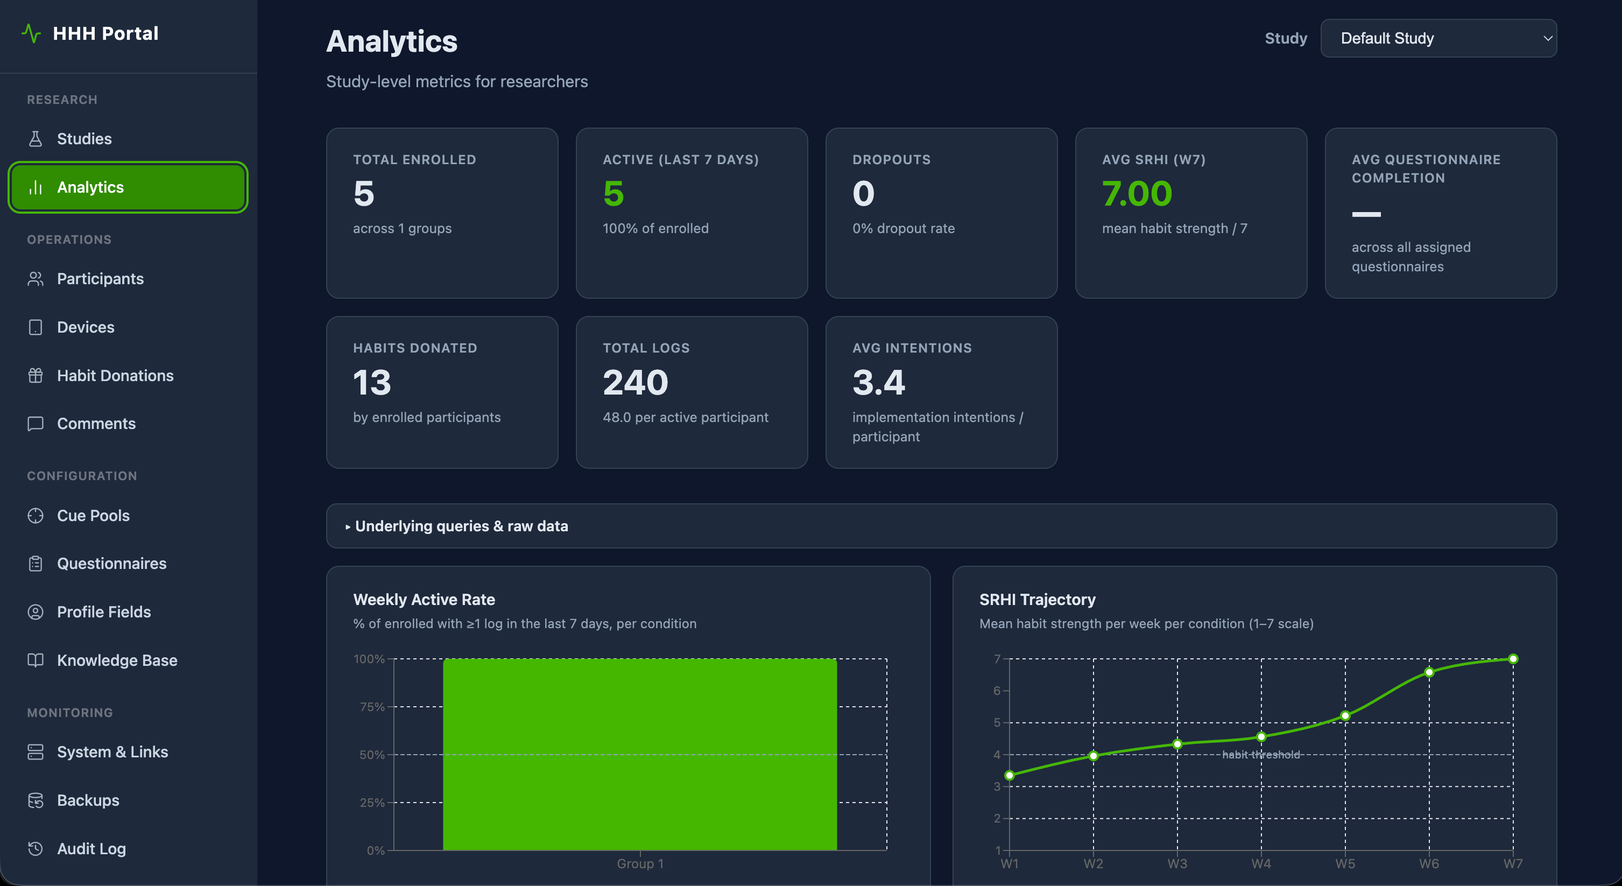
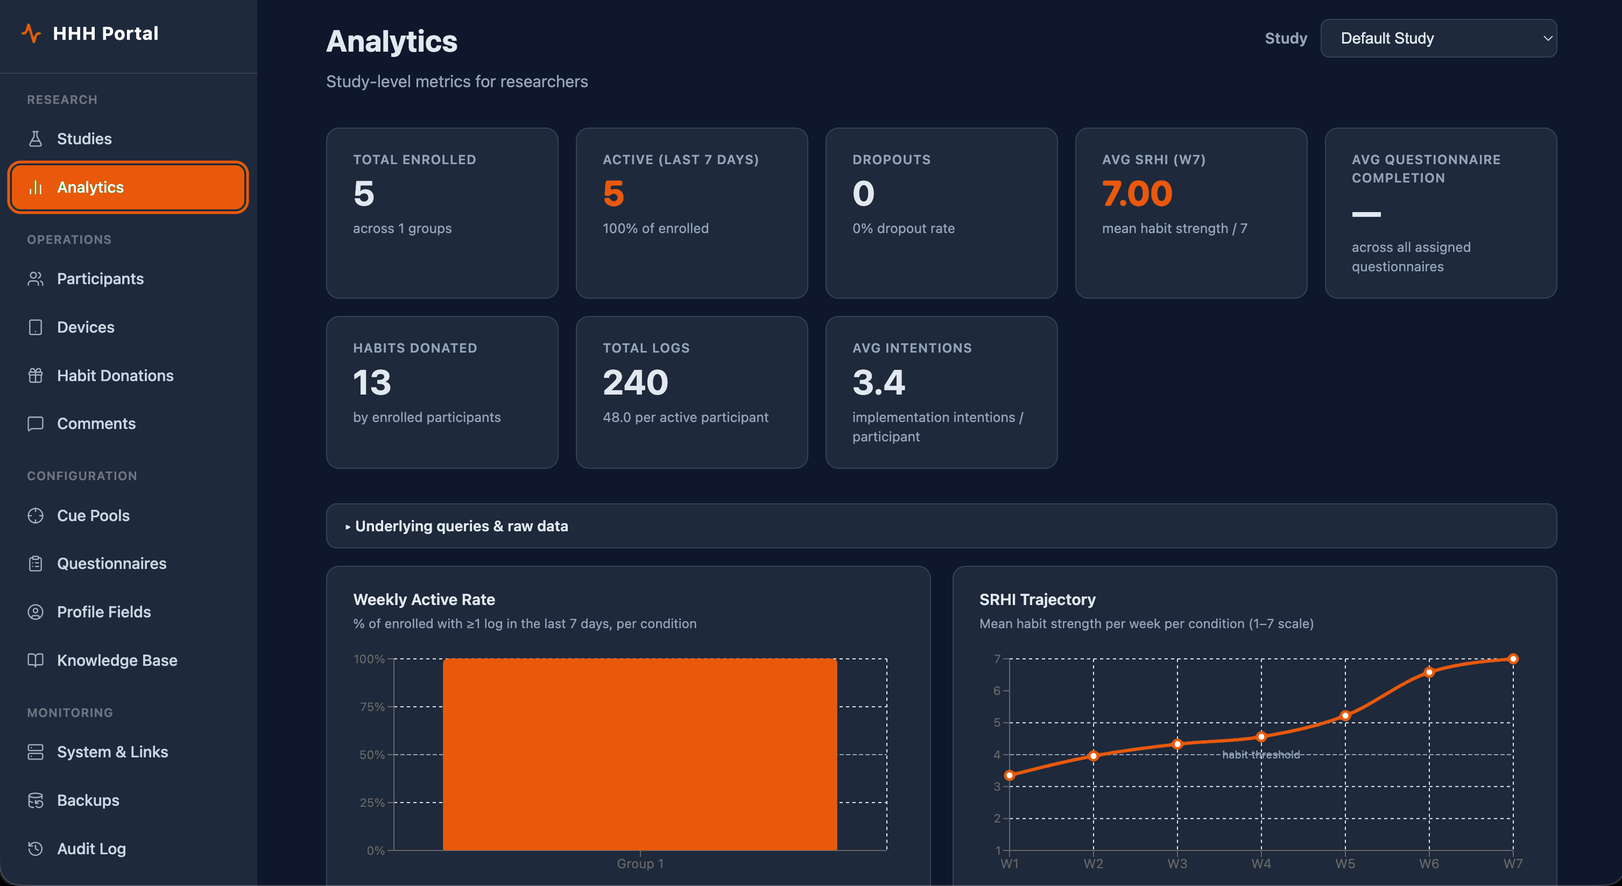
feat: update deployment documentation for self-hosted marketing site and Traefik configuration

diff --git a/docs/architecture.md b/docs/architecture.md
@@ -4,7 +4,7 @@
 
 ## Overview
 
-Health Habit Hub (HHH) is a research platform for collecting, annotating, and recommending behavioural habits. It consists of nineteen Docker services orchestrated via `docker-compose` (including monitoring — Prometheus/Grafana/blackbox-exporter — and a scoped Docker socket proxy for the backup service), a Flutter mobile/web app, a Next.js admin panel, and a Python-based recommender/enrichment microservice. All HTTP traffic is routed through a Traefik reverse proxy.
+Health Habit Hub (HHH) is a research platform for collecting, annotating, and recommending behavioural habits. It consists of twenty Docker services orchestrated via `docker-compose` (including monitoring — Prometheus/Grafana/blackbox-exporter — and a scoped Docker socket proxy for the backup service), a Flutter mobile/web app, a Next.js admin panel, a Python-based recommender/enrichment microservice, and a static Astro marketing site. All HTTP traffic is routed through a Traefik reverse proxy, which terminates TLS for **two independent public domains** — see [Public Domains & TLS](#public-domains--tls) below.
 
 ---
 
@@ -14,9 +14,12 @@ Health Habit Hub (HHH) is a research platform for collecting, annotating, and re
 graph TD
     Flutter["Flutter App\n(Android / iOS / Web)"]
     AdminPanel["Admin Panel\n(Next.js)\n:3001"]
+    Browser["Browser\nhealthhabithub.de"]
 
     subgraph Docker["Docker stack (hhh-proxy network)"]
         Proxy["Traefik v3\n:80 (HTTP)\n:443 (HTTPS prod)\n:8080 dashboard"]
+
+        Website["website\n(Astro static build + nginx)\n:80\nHost: $WEBSITE_DOMAIN"]
 
         App["Node.js Backend\n(Express)\n:3000\n/api/v1/*"]
 
@@ -51,6 +54,8 @@ graph TD
 
     Flutter -->|"HTTPS :443 / HTTP :80"| Proxy
     AdminPanel -->|"HTTPS :443 / HTTP :80"| Proxy
+    Browser -->|"HTTPS :443\nHost: $WEBSITE_DOMAIN"| Proxy
+    Proxy -->|"Host: $WEBSITE_DOMAIN / www.$WEBSITE_DOMAIN"| Website
     Proxy -->|"Host: app.*"| App
     Proxy -->|"Host: admin.*"| AdminPanel
     Proxy -->|"Host: keycloak.* / PathPrefix:/auth"| Keycloak
@@ -115,10 +120,24 @@ graph TD
 | **grafana**             | Grafana OSS 12.0.1                                                                       | Dashboards over Prometheus data; Keycloak SSO (OIDC), realm role → Grafana role mapping; unified alerting (BullMQ failures, service reachability, 5xx spikes) emails `ALERT_EMAIL` via SMTP                                                                                                                                                                                                                                                                        | 3000                                  | `grafana.localhost` (local); `https://<DOMAIN>/grafana` (prod, via Traefik)                                                                                               | `GRAFANA_ADMIN_USER`, `GRAFANA_ADMIN_PASSWORD`, `GRAFANA_CLIENT_SECRET`, `NEXT_PUBLIC_GRAFANA_URL` (admin-panel link), `GF_SMTP_*`/`HHH_ALERT_EMAIL` (from `SMTP_*`/`ALERT_EMAIL`)                                                         |
 | **backup**              | Custom Alpine + sleep-loop                                                               | Backs up MongoDB, LightRAG, Neo4j, Keycloak. Starts 2 min after container boot, then repeats every 24h (not a real cron — drifts on container restart). Time-based retention plus a hard cap on scheduled-trigger backups; also runs the internal `backup-api` HTTP server (status/trigger/restore/upload/download) the admin panel's Backups page talks to; success/failure alerts sent directly via SMTP (`lib.sh`'s `send_smtp_mail()`), independent of Grafana | — (backup-api on 4100, internal only) | Internal only                                                                                                                                                             | `BACKUP_RETENTION_DAYS` (default 14), `BACKUP_SCHEDULED_LIMIT` (default 10, caps scheduled backups regardless of age), `ALERT_WEBHOOK_URL`, `ALERT_EMAIL`, `SMTP_HOST`/`SMTP_USER`/`SMTP_PASS`/`SMTP_FROM`, `MONGO_USER`, `MONGO_PASSWORD` |
 | **docker-socket-proxy** | tecnativa/docker-socket-proxy                                                            | Scoped Docker API in front of the real `docker.sock`, reachable only by `backup` over the internal `hhh-backup-internal` network; exposes only the container/volume/image calls `backup.sh`/`restore.sh` need (no EXEC, NETWORKS, SECRETS, etc.) instead of a raw socket mount                                                                                                                                                                                     | 2375 (internal only)                  | Internal only                                                                                                                                                             | —                                                                                                                                                                                                                                          |
+| **website**             | Astro (static build) + nginx:alpine                                                     | Public marketing/info site (bilingual DE/EN) — self-hosted here rather than on a third-party edge platform, see [Public Domains & TLS](#public-domains--tls). Fully static: no app server, no runtime env vars, no database access.                                                                                                                                                                                                                             | 80                                     | `https://<WEBSITE_DOMAIN>` and `https://www.<WEBSITE_DOMAIN>` (prod only — not in docker-compose.local.yml, use `npm run dev` in `website/` locally instead)              | `WEBSITE_DOMAIN`                                                                                                                                                                                                                            |
 
 > **Flutter mobile/web**: Not a separate Docker container. Flutter runs natively on Android/iOS or as a compiled web app. In dev the backend is reached directly; in production the compiled web bundle may be hosted on the `app` service.
 >
 > **Admin panel**: Runs as a separate Docker container (`hhh-admin`) on port 3001. Uses NextAuth v4 + Keycloak for authentication and enforces `admin` or `researcher` realm roles at the middleware layer.
+
+---
+
+## Public Domains & TLS
+
+Traefik terminates TLS for **two independent public hostnames** on the same instance, each with its own Let's Encrypt certificate obtained automatically via the `letsencrypt` cert resolver (`acme.tlschallenge=true` — TLS-ALPN-01, which needs no DNS-provider API integration, just port 443 reachable for the domain in question):
+
+- **`$DOMAIN`** (e.g. `habit.wiwi.tu-dresden.de`) — the operational app/admin/research-infrastructure host. Every backend service in this document rides on this one hostname, split by path prefix (`/admin`, `/auth`, `/mongo`, `/grafana`, ...) — see the Per-Service Reference Table above.
+- **`$WEBSITE_DOMAIN`** (e.g. `healthhabithub.de`, matched with and without `www.`) — the **public marketing site only** (`website` service). It is deliberately a separate hostname on a separate domain, not a path under `$DOMAIN`, because it's the public-facing front door and is meant to be memorable/brandable independent of the institutional app URL.
+
+`website` is self-hosted on this same Traefik instance rather than on a third-party static-hosting edge (e.g. Cloudflare Pages) because `$WEBSITE_DOMAIN`'s DNS is hosted at a provider that will not permit its nameservers to be delegated elsewhere while it remains the zone administrator for that domain (a documented policy on their end, not a technical DNS limitation) — so an ordinary `A`/`CNAME` record pointing at this server's IP was the low-friction path, needing no registrar change and no DNS-provider API access on Traefik's side. `$WEBSITE_DOMAIN`'s MX/SPF/DKIM records remain with that same DNS provider unchanged — only the web-traffic `A`/`CNAME` records point at this server.
+
+**Operational note:** an unset or empty `$WEBSITE_DOMAIN` does not fail loudly — Traefik's Docker-provider label templating renders it as an empty string, producing a syntactically valid but wrong router rule (`Host(\`\`) || Host(\`www.\`)`), which Let's Encrypt then rejects as an invalid identifier while browsers fall back to Traefik's self-signed default cert. If a domain's cert won't issue or a browser reports `TRAEFIK DEFAULT CERT`, check the *actual rendered* rule first — `docker logs hhh-proxy | grep <router-name>` — rather than assuming the env var is correct.
 
 ---
 

diff --git a/DEPLOYMENT.md b/DEPLOYMENT.md
@@ -198,6 +198,17 @@ If you are only using `docker-compose.local.yml`, this is the safest way to brin
 
 - [ ] Domain `habit.wiwi.tu-dresden.de` resolves to `141.76.16.16`
 - [ ] DNS propagation complete (verified with `dig habit.wiwi.tu-dresden.de`)
+- [ ] Marketing site domain (`WEBSITE_DOMAIN`, e.g. `healthhabithub.de`) has
+      **ordinary** `A`/`CNAME` records — apex and `www` — pointing at
+      `141.76.16.16`, at whatever DNS provider currently hosts that domain's
+      zone. This does **not** require moving the domain's nameservers or its
+      registrar: Traefik requests its own Let's Encrypt certificate per
+      hostname via TLS-ALPN-01 (needs port 443 reachable, nothing else), so
+      any DNS provider that lets you edit A/CNAME records works, even one that
+      won't let you delegate NS to a third party. Verify with
+      `dig +short A healthhabithub.de` and `dig +short A www.healthhabithub.de`
+      — both should return `141.76.16.16` (`www` may show as a `CNAME` chain
+      ending in that IP, which is fine).
 
 ### 3. External Services
 
@@ -444,12 +455,19 @@ All containers should be running:
 | `hhh-knowledge-mcp` | MCP server exposing the knowledge base to AI agents                                     |
 | `hhh-admin`         | Next.js admin panel — study management UI                                               |
 | `hhh-backup`        | Backup service                                                                          |
+| `hhh-website`       | Astro marketing site (static build) behind nginx — served on `WEBSITE_DOMAIN`, not `DOMAIN` |
 
 ### 2. Verify SSL Certificate
 
 - Check Traefik logs: look for "certificate obtained"
 - Visit `https://habit.wiwi.tu-dresden.de`
 - Verify valid SSL certificate (green padlock)
+- Separately, visit `https://<WEBSITE_DOMAIN>` and `https://www.<WEBSITE_DOMAIN>`
+  (e.g. `https://healthhabithub.de`) and verify each has its own valid
+  certificate too — this is a second, independent hostname/cert on the same
+  Traefik instance, not covered by checking `DOMAIN` above. From the command
+  line: `curl -v https://healthhabithub.de/ 2>&1 | grep -i "subject\|issuer"`
+  should show `Let's Encrypt`, not `TRAEFIK DEFAULT CERT`.
 
 ### 3. Test Services
 
@@ -710,6 +728,32 @@ its non-`/auth` values are correct there.
    docker logs hhh-proxy | grep -i certificate
    ```
 
+**Problem:** `website` (`WEBSITE_DOMAIN`) specifically shows Traefik's
+self-signed `TRAEFIK DEFAULT CERT` instead of a real one, and/or Traefik logs
+show an ACME error like `Cannot issue for "www": Domain name needs at least
+one dot`.
+
+**Cause:** `WEBSITE_DOMAIN` is unset or empty in whatever env source Portainer
+(or `docker compose`) is actually reading on **this** server — `.env` is
+gitignored and per-environment, so setting it in a local checkout does
+nothing here. Traefik's Docker-provider label templating doesn't fail loudly
+on a missing variable: `Host(\`${WEBSITE_DOMAIN}\`)` silently renders as
+`Host(\`\`)`, which is syntactically valid but matches nothing, and produces
+exactly the "www: needs at least one dot" ACME rejection above.
+
+**Fix:**
+```bash
+# Confirm the actual rendered rule first — don't assume the env var is right:
+docker logs hhh-proxy --tail 200 | grep website
+
+# If it shows Host(``) instead of Host(`healthhabithub.de`), set
+# WEBSITE_DOMAIN in this server's real .env (or Portainer's environment
+# variables), then:
+docker compose up -d --force-recreate website
+```
+Traefik retries ACME on its own once the rule is valid — no further action
+needed once the rendered rule shows the real domain.
+
 ### Services Can't Communicate
 
 **Problem:** App can't connect to MongoDB / Neo4j / Redis / recommender
@@ -953,6 +997,7 @@ Automatic via Let's Encrypt — certificates auto-renew 30 days before expiry. M
 
 | Service                 | Production URL                                | Local (`docker-compose.local.yml`)                                      | Direct Local Port                                                   |
 | ----------------------- | --------------------------------------------- | ----------------------------------------------------------------------- | ------------------------------------------------------------------- |
+| Marketing Site          | `https://healthhabithub.de` (`WEBSITE_DOMAIN`, separate domain from `DOMAIN` below) | `npm run dev` in `website/` (not part of `docker-compose.local.yml`) | —                                                                   |
 | Backend API             | `https://habit.wiwi.tu-dresden.de/api/v1/`    | `http://app.localhost/api/v1/`                                          | `http://localhost:3000/api/v1/`                                     |
 | Flutter Web App         | `https://habit.wiwi.tu-dresden.de`            | local mobile/web build pointing to local backend                        | —                                                                   |
 | Admin Panel             | `https://habit.wiwi.tu-dresden.de/admin`      | `http://admin.localhost`                                                | `http://localhost:3001`                                             |

diff --git a/website/README.md b/website/README.md
@@ -1,8 +1,12 @@
 # Health Habit Hub — Website (`healthhabithub.de`)
 
 Public front door and single source of truth for the project. Static
-[Astro](https://astro.build) site, deployed on **Cloudflare Pages**, fully
-decoupled from the research stack on the TU Dresden server.
+[Astro](https://astro.build) site, self-hosted on the same TU Dresden server
+as the rest of the stack (via `website/Dockerfile` + the `website` service in
+the repo-root `docker-compose.yml`, behind the same Traefik reverse proxy) —
+see [`docs/architecture.md`](../docs/architecture.md#public-domains--tls) for
+why. Content is decoupled from the app/admin code (own domain, own Docker
+image), but the deploy target is the same server.
 
 ## Structure
 
@@ -40,19 +44,42 @@ source files are missing, a clearly-marked placeholder is written instead.
 | `/forschung/` | `/en/research/` | Researchers — admin portal, capabilities, architecture |
 | `/impressum/` `/datenschutz/` `/einwilligung/` | `/en/legal/{imprint,privacy,consent}/` | Legal (from `app/language/`) |
 
-## Deploy — Cloudflare Pages
+## Deploy — Docker + Traefik (self-hosted)
 
-1. **Connect the repo** in Cloudflare Pages.
-2. **Build settings:** Root directory `website`, Build command `npm run build`,
-   Output directory `dist`.
-3. Every push to `main` deploys; pull requests get preview URLs.
+Built and served from the repo root, not from inside `website/` — see
+`website/Dockerfile`'s multi-stage build (context is the monorepo root,
+because `sync:legal` needs `../app/language/` alongside `website/`) and the
+`website` service in `docker-compose.yml`.
+
+```bash
+docker compose up -d --build website
+```
+
+Traefik routes `WEBSITE_DOMAIN` (and `www.$WEBSITE_DOMAIN`) to it and requests
+its own Let's Encrypt certificate automatically (TLS-ALPN-01 — needs port 443
+reachable, no DNS-provider API access). See
+[`DEPLOYMENT.md`](../DEPLOYMENT.md#2-dns-configuration) for the full
+checklist and [`docs/runbook.md`](../docs/runbook.md) for the
+empty-`WEBSITE_DOMAIN` gotcha if the cert doesn't come up.
+
+An earlier plan hosted this on Cloudflare Pages/Workers under
+`healthhabithub.de` — abandoned because that domain's DNS provider won't
+allow its nameservers to be delegated to Cloudflare while they remain zone
+administrator (a provider policy, not a `.de`-wide restriction), and
+Cloudflare Registrar doesn't support `.de` domains at all. Self-hosting here
+sidesteps that entirely: it only needs an ordinary `A`/`CNAME` record, which
+that provider does allow editing.
 
 ## DNS for `healthhabithub.de`
 
-1. Add the site to Cloudflare and move the domain's nameservers to Cloudflare
-   (or add the CNAME Pages provides). TLS is issued automatically.
-2. Redirect `www.healthhabithub.de` → apex.
-3. (Optional) 301 `felixreinsch.de/healthhabithub` → `https://healthhabithub.de`.
+1. Ordinary `A` record: apex → the TU Dresden server's IP (see
+   `DEPLOYMENT.md` for the current value).
+2. `CNAME www → healthhabithub.de` (or a second `A` record to the same IP) —
+   Traefik matches both hostnames to the same service, no separate redirect
+   needed.
+3. Nameservers stay with the existing DNS provider — do **not** change them;
+   only these two web-facing records point at the new server. Email
+   (MX/SPF/DKIM) records for this domain are unrelated and untouched.
 
 ## Before go-live
 

diff --git a/docs/runbook.md b/docs/runbook.md
@@ -28,6 +28,7 @@ and is annotated with the expected output.
     - [Flutter web blank page — CORS issue](#flutter-web-blank-page--cors-issue)
     - [Recommender service unreachable](#recommender-service-unreachable--container-name-resolution)
     - [LibreTranslate down or returning empty translations](#libretranslate-down-or-returning-empty-translations)
+    - [`website` gets Traefik's default cert instead of a real one](#website-gets-traefiks-default-cert-instead-of-a-real-one--empty-env-var-not-an-acme-failure)
 
 ---
 
@@ -1316,6 +1317,56 @@ Update `.env` with a valid key and redeploy the recommender:
 
 ```bash
 bash scripts/deploy-recommender.sh
+```
+
+---
+
+### `website` gets Traefik's default cert instead of a real one — empty env var, not an ACME failure
+
+**Symptom:** Browsers show `net::ERR_CERT_AUTHORITY_INVALID` / "connection not
+private" for `WEBSITE_DOMAIN` (e.g. `healthhabithub.de`), and inspecting the
+certificate shows `CN=TRAEFIK DEFAULT CERT` rather than a Let's Encrypt one.
+Often paired with a 404 from Traefik itself, since no router actually matches
+the real incoming `Host` header.
+
+**Root cause:** `WEBSITE_DOMAIN` is unset or empty in whatever env source is
+actually live on the server — commonly because it was only set in a local
+`.env` (gitignored, per-environment — never deployed) or never added to
+Portainer's stack environment variables. Traefik's Docker-provider label
+templating does **not** fail loudly on a missing variable: a rule written as
+`` Host(`${WEBSITE_DOMAIN}`) || Host(`www.${WEBSITE_DOMAIN}`) `` silently
+renders as `` Host(``) || Host(`www.`) `` — syntactically valid, so nothing
+crashes — which then makes Let's Encrypt reject the request outright:
+
+```
+Cannot issue for "www": Domain name needs at least one dot
+```
+
+The general lesson: a missing Traefik-templated env var is a silent
+misconfiguration, not a startup failure. Don't assume the env var is correct
+just because the stack came up healthy — check what Traefik actually rendered:
+
+```bash
+# What did Traefik actually see, not what you think you set:
+docker logs hhh-proxy --tail 200 | grep -i "website\|acme"
+# Look at the `rule=` in the output — if it shows empty backticks instead of
+# the real domain, the env var isn't reaching this container.
+```
+
+**Fix:**
+
+```bash
+# Set WEBSITE_DOMAIN in THIS server's real .env (or Portainer env vars) —
+# not just a local checkout — then:
+docker compose up -d --force-recreate website
+```
+
+Traefik retries ACME automatically once the rule is valid — no manual
+certificate request needed. Verify from outside:
+
+```bash
+curl -v https://healthhabithub.de/ 2>&1 | grep -i "subject\|issuer"
+# Expected: Let's Encrypt, not TRAEFIK DEFAULT CERT
 ```
 
 ---

diff --git a/PRODUCT.md b/PRODUCT.md
@@ -25,7 +25,7 @@ Combines mobile habit donation, questionnaire-based profiling, ontology-based se
 
 - Institutional home: TU Dresden, Digital Health Research Group. The "HabConnect – from Habit to Health" study protocol was submitted to the TU Dresden ethics committee (13 May 2025, no objections) and its data-protection concept was assessed by the TU Dresden Data Protection Officer (28 March 2025, ref. 0543-025/001, no objections).
 - Three live design surfaces: the mobile app (Flutter, iOS/Android/Web) for participants; the admin/researcher portal (Next.js) for study and knowledge-base management; the public marketing site (Astro, healthhabithub.de) as the front door, which forks into a participant path and a researcher path.
-- Self-hosted infrastructure behind Traefik on TU Dresden servers (MongoDB, Neo4j, Keycloak, LightRAG, Redis, PostgreSQL for Keycloak). No third-party analytics or ad SDKs.
+- Self-hosted infrastructure behind Traefik on TU Dresden servers (MongoDB, Neo4j, Keycloak, LightRAG, Redis, PostgreSQL for Keycloak). No third-party analytics or ad SDKs. The marketing site (`website/`) is self-hosted here too (as of 2026-09-01), not on a third-party edge platform — its DNS provider won't permit delegating nameservers elsewhere while it remains zone administrator, so it rides the same Traefik instance as a second public hostname instead.
 - Bilingual (DE/EN) throughout the public site; the app and portal are DE/EN-facing too.
 - The operational app/portal lives at habit.wiwi.tu-dresden.de; the public marketing/info site is the separate healthhabithub.de.
 
@@ -44,6 +44,7 @@ Combines mobile habit donation, questionnaire-based profiling, ontology-based se
 - Name: Health Habit Hub. Public domain healthhabithub.de is deliberately distinct from the operational app/portal at habit.wiwi.tu-dresden.de.
 - Logo mark: a simple heart glyph inside a rounded gradient tile.
 - The marketing site (`website/`) has an established, already-approved visual identity as of 2026-08-31: Figtree (body) + Fraunces (headings), green as the participant accent and orange as the researcher accent (swapped per-subtree via a `.rtheme` scope), soft editorial cards, generous whitespace, no em dashes in copy. Treat this as incumbent, not greenfield, for any future work on that surface.
+- The admin portal itself (`admin/`) now carries the same orange researcher accent as of 2026-09-01 (not just the marketing site's `.rtheme` subtree) — its design tokens in `admin/src/app/globals.css` were swapped from the mobile app's green to WCAG-contrast-matched orange values. See `docs/design-system.md` for the token table and reasoning.
 
 ## Evidence on Hand
 

diff --git a/docs/design-system.md b/docs/design-system.md
@@ -88,6 +88,35 @@ The admin portal (`admin/src/lib/motion.ts`) mirrors the same damping/response
 values via the `motion` package's spring API (`defaultSpring`, `drawerSpring`,
 `momentumSpring`) — reach for those there instead of a bare CSS `transition`.
 
+## Admin portal accent (orange, not green)
+
+The admin/researcher portal (`admin/`, Next.js + MUI) deliberately does
+**not** share the mobile app's green above — it uses orange, matching the
+same participant/green vs. researcher/orange split already established on
+the marketing site's `.rtheme` CSS scope
+([`website/src/layouts/Base.astro`](../website/src/layouts/Base.astro)).
+Defined as CSS custom properties in
+[`admin/src/app/globals.css`](../admin/src/app/globals.css) (and mirrored into
+the MUI theme's `palette.primary` in
+[`admin/src/lib/mui-theme.ts`](../admin/src/lib/mui-theme.ts)), with light and
+dark-mode variants:
+
+| Token | Light | Dark | Use for |
+| --- | --- | --- | --- |
+| `--color-primary` | `#f97316` | `#f97316` | Accent-only: icons, focus rings, charts. **Never** as a solid fill behind white text — only 2.80:1 against white, below WCAG AA. |
+| `--color-primary-action` / `--color-sidebar-active` | `#c2410c` | `#f97316` | Solid fills with white content on top: buttons, the active sidebar-nav pill. |
+| `--color-primary-action-hover` / `--color-primary-dark` | `#9a3412` | `#fb923c` | Hover/pressed state — one step darker (light) or lighter (dark, to hold contrast against the darker surface) than the token above. |
+
+Same rule as the mobile app's `primary`/`primaryDark` split above:
+accent-only tokens are for content sitting on a light/white surface,
+action/fill tokens are for solid fills that need AA-safe contrast under white
+text. These specific hex values were chosen by computing WCAG contrast ratios
+to match or exceed what each equivalent green token cleared (e.g.
+`--color-primary-action` went from `#2e8c00` at 4.31:1-vs-white to `#c2410c`
+at 5.18:1) — not a like-for-like visual swap, so reusing one token for the
+other's role reintroduces the same contrast failure this split prevents for
+the mobile app's palette.
+
 ## Background
 
 Found 2026-08-04: the Share screen's "Shared today" badge and "Share another
